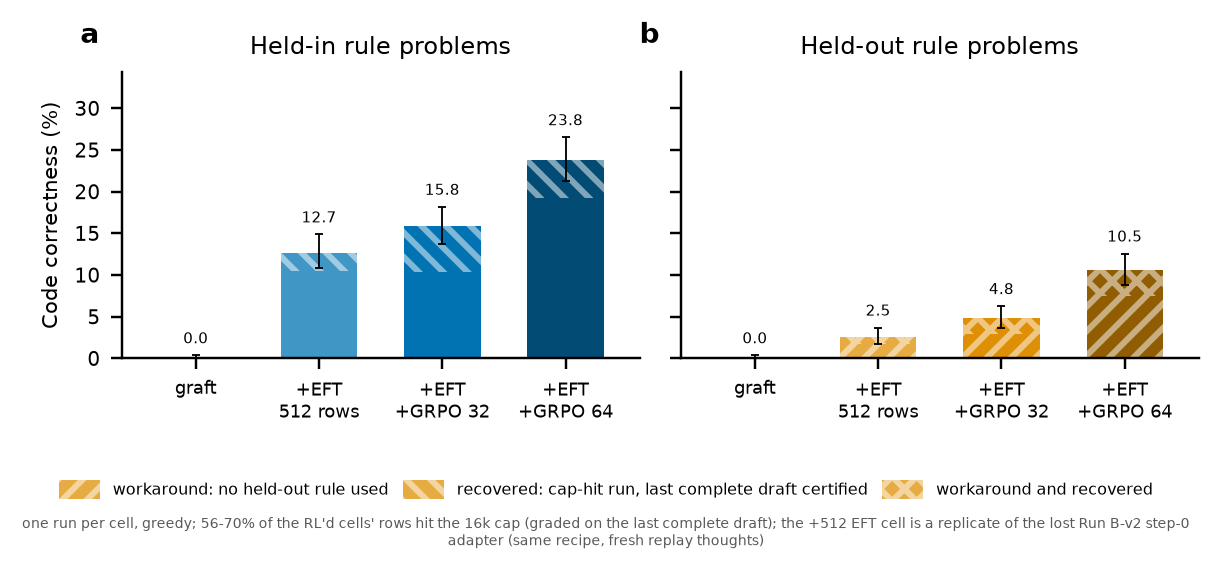
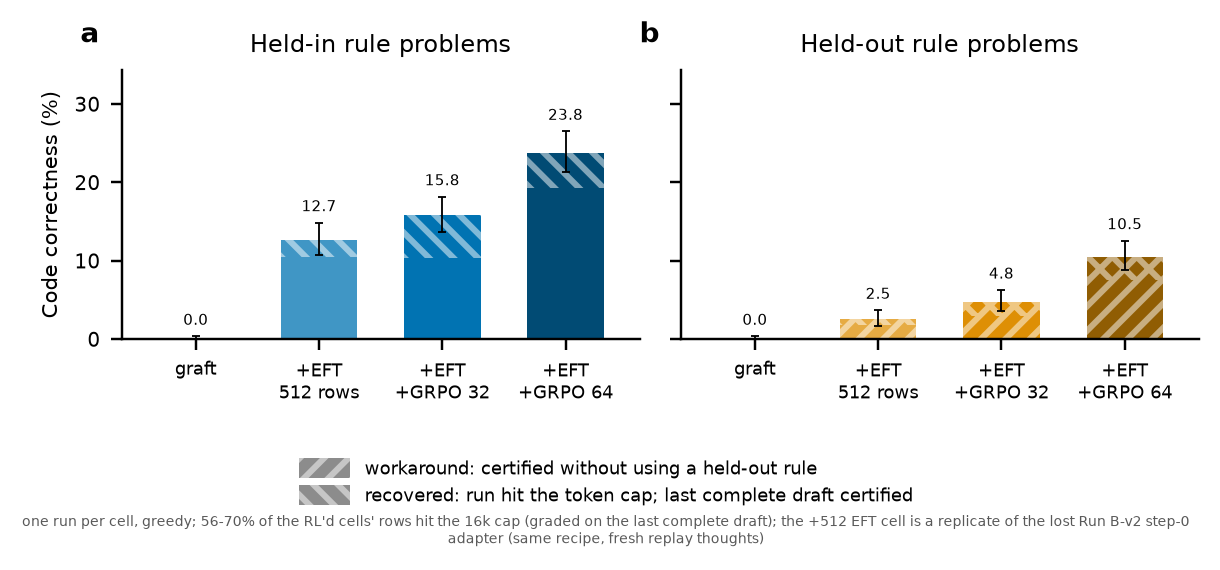
paper: python4_graft_ladder — legend swatches in grey, two entries (workaround, recovered; cross-hatch = overlay)

diff --git a/paper/figures/appendix-python-4/python4_graft_ladder/src/plot_python4_graft_ladder.py b/paper/figures/appendix-python-4/python4_graft_ladder/src/plot_python4_graft_ladder.py
@@ -6,7 +6,8 @@ Gemma-4 31B prop chat-vector graft, the same graft with a 512-row Python-4 EFT a
 (Run B-v2). Bars are the one-shot certified rate (Wilson 95% whisker), split four ways: plain = terminated
 run with a rule-following answer; "\\\\" hatch = recovered (the run hit the token cap and the
 harness certified the last complete draft inside the unfinished thought, never submitted);
-"///" = workaround (held-out only: certified with no held-out rule used); "xxx" = both.
+"///" = workaround (held-out only: certified with no held-out rule used); the cross-hatch is the two
+overlaid (workaround and recovered), so the legend carries only the two base swatches, in grey.
 A cell without a measurement is an empty slot labelled "pending".
 
 The point: the bare graft certifies 0/1,024 on both splits, and cold GRPO on the same graft
@@ -140,14 +141,13 @@ def main() -> None:
         ax.set_xlim(-0.6, len(order) - 0.4)
     axes[0].set_ylabel("Code correctness (%)", fontsize=7)
     axes[0].set_ylim(0, min(100, max(tops) * 1.18 + 3))
-    face = mix(ORANGE, (1, 1, 1), 0.25)
-    fig.legend(handles=[Patch(facecolor=face, **hatch_for(face, "workaround"), label="workaround: no held-out rule used"),
-                        Patch(facecolor=face, **hatch_for(face, "recovered"), label="recovered: cap-hit run, last complete draft certified"),
-                        Patch(facecolor=face, **hatch_for(face, "both"), label="workaround and recovered")],
-               loc="lower center", ncol=3, frameon=False, fontsize=5.2, bbox_to_anchor=(0.5, 0.07),
-               handlelength=2.6, handleheight=1.4, columnspacing=0.9)
+    grey = (0.55, 0.55, 0.55)     # legend swatches carry hatch semantics only (Jonathan, 2026-09-12)
+    fig.legend(handles=[Patch(facecolor=grey, **hatch_for(grey, "workaround"), label="workaround: certified without using a held-out rule"),
+                        Patch(facecolor=grey, **hatch_for(grey, "recovered"), label="recovered: run hit the token cap; last complete draft certified")],
+               loc="lower center", ncol=1, frameon=False, fontsize=6, bbox_to_anchor=(0.5, 0.05),
+               handlelength=2.8, handleheight=1.3, labelspacing=0.35)
     fig.text(0.5, 0.005, D["caveat"], ha="center", va="bottom", fontsize=4.6, color="0.35", wrap=True)
-    fig.subplots_adjust(left=0.10, right=0.99, top=0.84, bottom=0.34, wspace=0.08)
+    fig.subplots_adjust(left=0.10, right=0.99, top=0.84, bottom=0.37, wspace=0.08)
     for ext in ("pdf", "png"):
         fig.savefig(OUTPUT / f"python4_graft_ladder.{ext}", bbox_inches="tight")
     print("wrote", OUTPUT / "python4_graft_ladder.pdf", "(+.png)")
